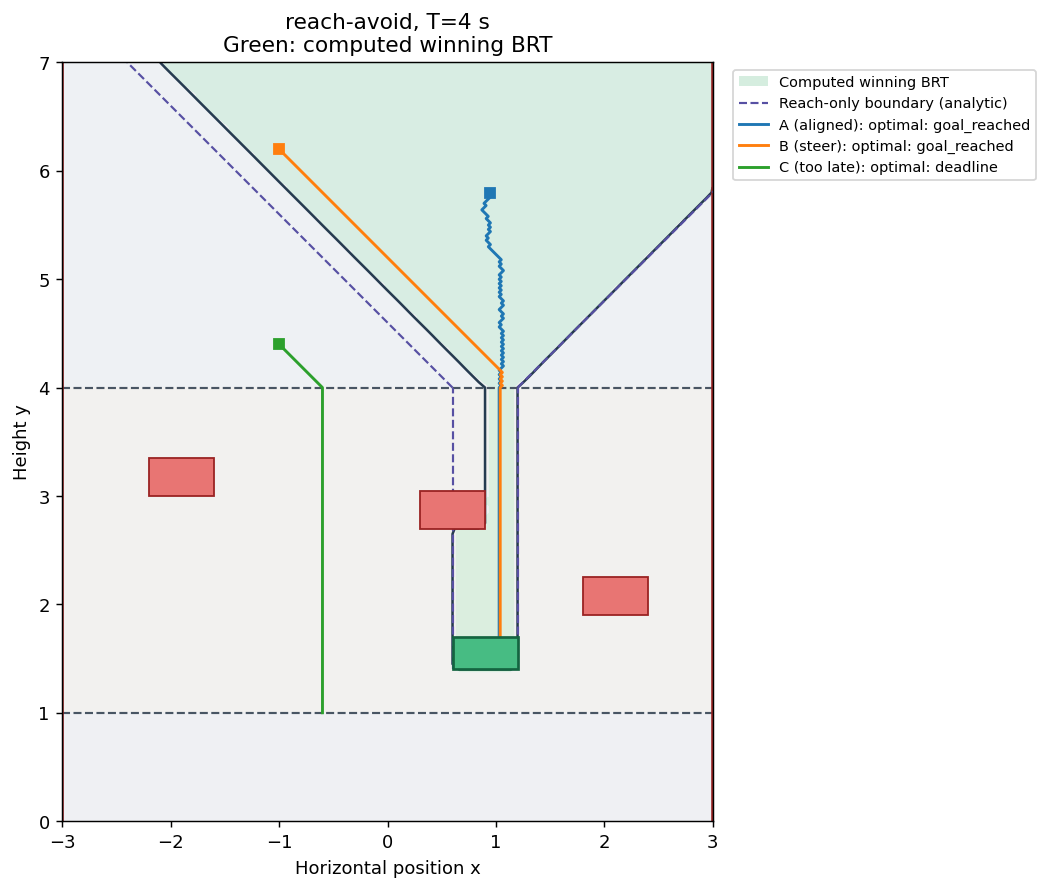
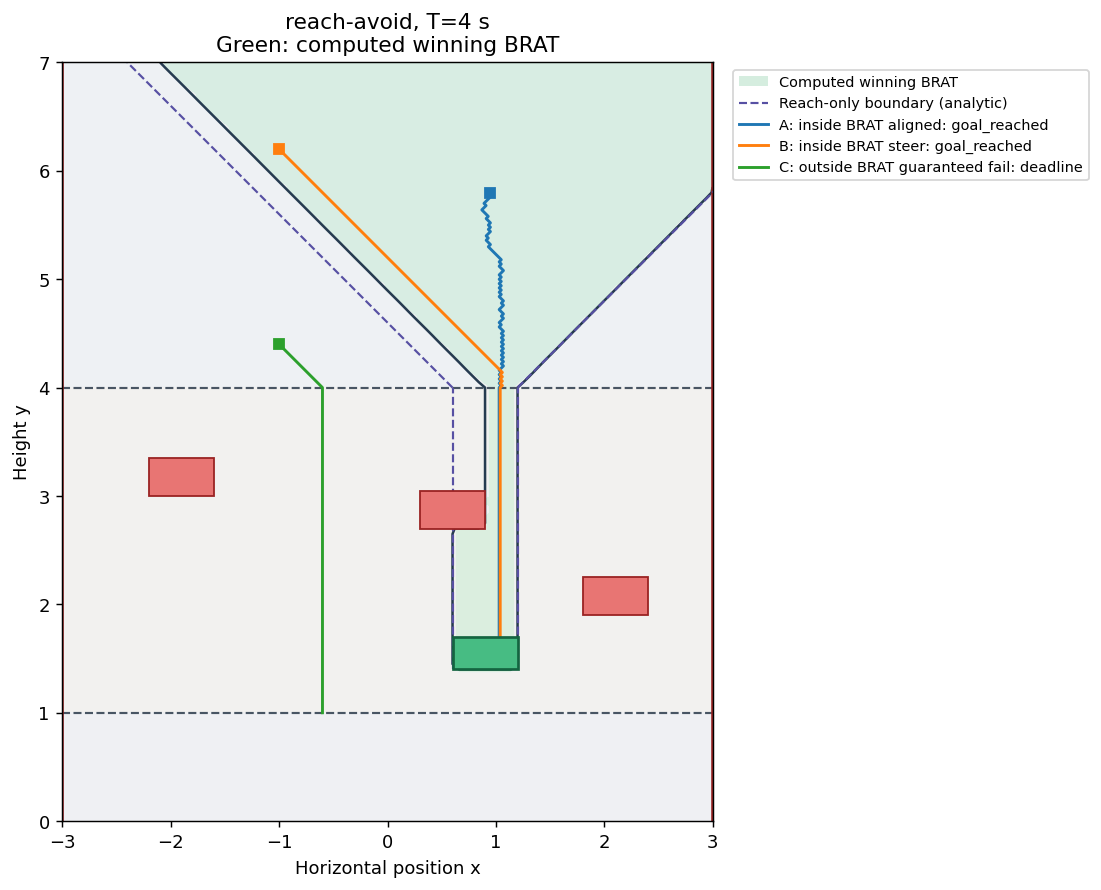
Move avoid start B to x=1.3 and use BRAT terminology

diff --git a/tutorials/falling_piece_figures.py b/tutorials/falling_piece_figures.py
@@ -45,8 +45,9 @@ def physical_field(result, p):
 
 def display_label(name, kind):
     if kind in ("reach", "reach_avoid"):
-        return {"A": "A: inside BRT aligned", "B": "B: inside BRT steer",
-                "C": "C: outside BRT guaranteed fail"}.get(name[:1], name)
+        tube = "BRAT" if kind == "reach_avoid" else "BRT"
+        return {"A": f"A: inside {tube} aligned", "B": f"B: inside {tube} steer",
+                "C": f"C: outside {tube} guaranteed fail"}.get(name[:1], name)
     if kind == "avoid":
         if name.endswith("nominal") or name.endswith("filtered"):
             policy = name.rsplit(": ", 1)[-1]
@@ -110,11 +111,12 @@ def plot_brt(result, p, trajectories, output):
         ax.plot(x, y, color=color, linewidth=1.6,
                 label=label if result.kind == "reach" else f"{label}: {trajectory['status']}")
         ax.plot(x[0], y[0], "s", color=color, markersize=5)
-    meaning = "Green: computed safe set; red: failure BRT" if result.kind == "avoid" else "Green: computed winning BRT"
+    tube = "BRAT" if result.kind == "reach_avoid" else "BRT"
+    meaning = "Green: computed safe set; red: failure BRT" if result.kind == "avoid" else f"Green: computed winning {tube}"
     ax.set_title(f"{result.kind.replace('_', '-')}, T={result.horizons[-1]:g} s\n{meaning}")
     handles, labels = ax.get_legend_handles_labels()
     handles.insert(0, Patch(facecolor="#d5eddf"))
-    labels.insert(0, "Computed safe set" if result.kind == "avoid" else "Computed winning BRT")
+    labels.insert(0, "Computed safe set" if result.kind == "avoid" else f"Computed winning {tube}")
     ax.legend(handles, labels, loc="upper left", bbox_to_anchor=(1.02, 1), fontsize=8)
     fig.tight_layout()
     fig.savefig(output, dpi=130, bbox_inches="tight")
@@ -142,7 +144,7 @@ def animate(result, p, trajectories, output, *, frames=81):
         labels[:0] = ["Avoid BRT", "Safe set"]
     else:
         handles.insert(0, Patch(facecolor="#d5eddf"))
-        labels.insert(0, "Reach BRT" if result.kind == "reach" else "Reach-avoid BRT")
+        labels.insert(0, "Reach BRT" if result.kind == "reach" else "BRAT")
     if comparison:
         handles.append(Line2D([], [], color="none", marker="s", markerfacecolor="none",
                               markeredgecolor="#f19a22", markeredgewidth=2))

diff --git a/tutorials/falling_piece.py b/tutorials/falling_piece.py
@@ -15,7 +15,7 @@ from hybrid_reach.examples.falling_piece import (
 
 def rollouts(problem, events, result, p):
     if problem.kind == "avoid":
-        starts = {"A": [-1.7, 6.6], "B": [1., 5.4], "C (too late)": [-1.9, 4.2]}
+        starts = {"A": [-1.7, 6.6], "B": [1.3, 5.4], "C (too late)": [-1.9, 4.2]}
         hlrf = AvoidFilter(problem, result, margin=.12)
 
         def safety_feedback(x, q, tau):

diff --git a/tutorials/REACH_AVOID.md b/tutorials/REACH_AVOID.md
@@ -15,10 +15,10 @@ from hybrid_reach.examples.falling_piece import goal, failure
 The goal spans `x=0.6` to `1.2`; the blocking obstacle spans `x=0.3` to `0.9`.
 A piece dropping from above must therefore use the target's right-hand part.
 
-## Compute the backward reachable tube
+## Compute the backward reach-avoid tube
 
-The **reach-avoid BRT** contains states from which the target can be reached
-within the horizon without collision before arrival.
+The **backward reach-avoid tube (BRAT)** contains states from which the target
+can be reached within the horizon without collision before arrival.
 
 ```python
 import numpy as np
@@ -32,7 +32,7 @@ result = solve(problem, horizons, save_indices=tuple(range(0, 401, 5)))
 ```
 
 `Problem.reach_avoid` selects minimizing control while retaining failure
-constraints. For this objective, **`V <= 0` is the computed reach-avoid BRT**.
+constraints. For this objective, **`V <= 0` is the computed BRAT**.
 
 ## Turn the field into feedback
 
@@ -69,15 +69,15 @@ Open `outputs/falling_piece/reach_avoid/policy.gif`. Use a fresh `--output`
 directory for reruns. The command also saves the value history, trajectories
 and summary.
 
-![Reach-avoid feedback: A and B inside the BRT reach the clear target columns; C outside it misses](../docs/images/falling_piece_reach_avoid_policy.gif)
+![Reach-avoid feedback: A and B inside the BRAT reach the clear target columns; C outside it misses](../docs/images/falling_piece_reach_avoid_policy.gif)
 
 | Start | Expected behavior |
 |---|---|
-| A: inside BRT aligned, `(0.95,5.8)` | Reaches the target without collision |
-| B: inside BRT steer, `(-1,6.2)` | Steers into a clear target column; reaches it |
-| C: outside BRT guaranteed fail, `(-1,4.4)` | Too little steering time; misses the target |
+| A: inside BRAT aligned, `(0.95,5.8)` | Reaches the target without collision |
+| B: inside BRAT steer, `(-1,6.2)` | Steers into a clear target column; reaches it |
+| C: outside BRAT guaranteed fail, `(-1,4.4)` | Too little steering time; misses the target |
 
-The GIF retains the initial-horizon reach-avoid BRT in green. Its clock shows
+The GIF retains the initial-horizon BRAT in green. Its clock shows
 physical time. Below the blocking obstacle, the winning column widens again.
 C avoids collision but misses the target, so it still fails the reach-avoid task.
 

diff --git a/CHANGELOG.md b/CHANGELOG.md
@@ -30,6 +30,7 @@ evidence stays in the research repository. Stable decision IDs support review.
 | PUB-23 | In `simulation.py`, distinguish located terminal roots from unresolved near-zero guard contacts; allow an empty event list. | Falling-piece goals exactly at feedback endpoints were incorrectly reported as `zeno_contact`; resting with all coordinates fixed exposed `t_events=None`. Terminal roots retain actual state/time, and zero-duration roots add no duplicate flow record. Existing unresolved guard contacts still stop. New regression cases cover tiny goal/failure event times and rest, alongside the full 52-test CPU suite. |
 | PUB-24 | Include generated documentation GIFs in curated exports and source distributions; add Pillow to the plotting extra. | The new lesson's four animations must render in GitHub and regenerate without an external GIF encoder. Export tests verify the tutorial entry point, animation presence and file hashes; large result histories remain excluded. |
 | PUB-25 | Replace the landing-page tutorial preview with saved jumper safety-filter and spacecraft reach-avoid GIFs. Add `examples/papers/animate.py` and source provenance in `docs/PAPER_ANIMATIONS.md`. | The script renders the existing validated demo NPZs and recorded configuration/reports, using linear position interpolation and recorded controls/modes. Source hashes and stopped endpoints are checked. Only animation rendering and documentation/export checks were performed; no new solves, rollouts or numerical experiments were run. |
+| PUB-26 | Set avoid-only tutorial start B to `(1.3,5.4)` in `tutorials/falling_piece.py`; use backward reach-avoid tube (BRAT) in the reach-avoid lesson and figure labels. | Only B's trajectory was recomputed using the saved avoid field; other trajectories and fields were reused. B finishes safely with an independently audited minimum failure field of 0.4, but maximum-safety feedback still steers left by 1.4. The policy is unchanged; the new start does not make it hold its column. |
 
 Remaining work before a complete public release:
 

diff --git a/tutorials/AVOID.md b/tutorials/AVOID.md
@@ -91,7 +91,7 @@ for reruns. The command also saves the value history, trajectories and summary.
 | Start | Expected behavior |
 |---|---|
 | A: outside BRT steer, `(-1.7,6.6)` | Steers into a gap; finishes safely |
-| B: outside BRT aligned, `(1,5.4)` | Starts in a clear column; finishes safely |
+| B: outside BRT aligned, `(1.3,5.4)` | Starts in a clear column; finishes safely |
 | C: inside BRT guaranteed fail, `(-1.9,4.2)` | Too little steering time; collides |
 
 The GIF shows the initial-horizon avoid BRT in red and the safe set in green.
